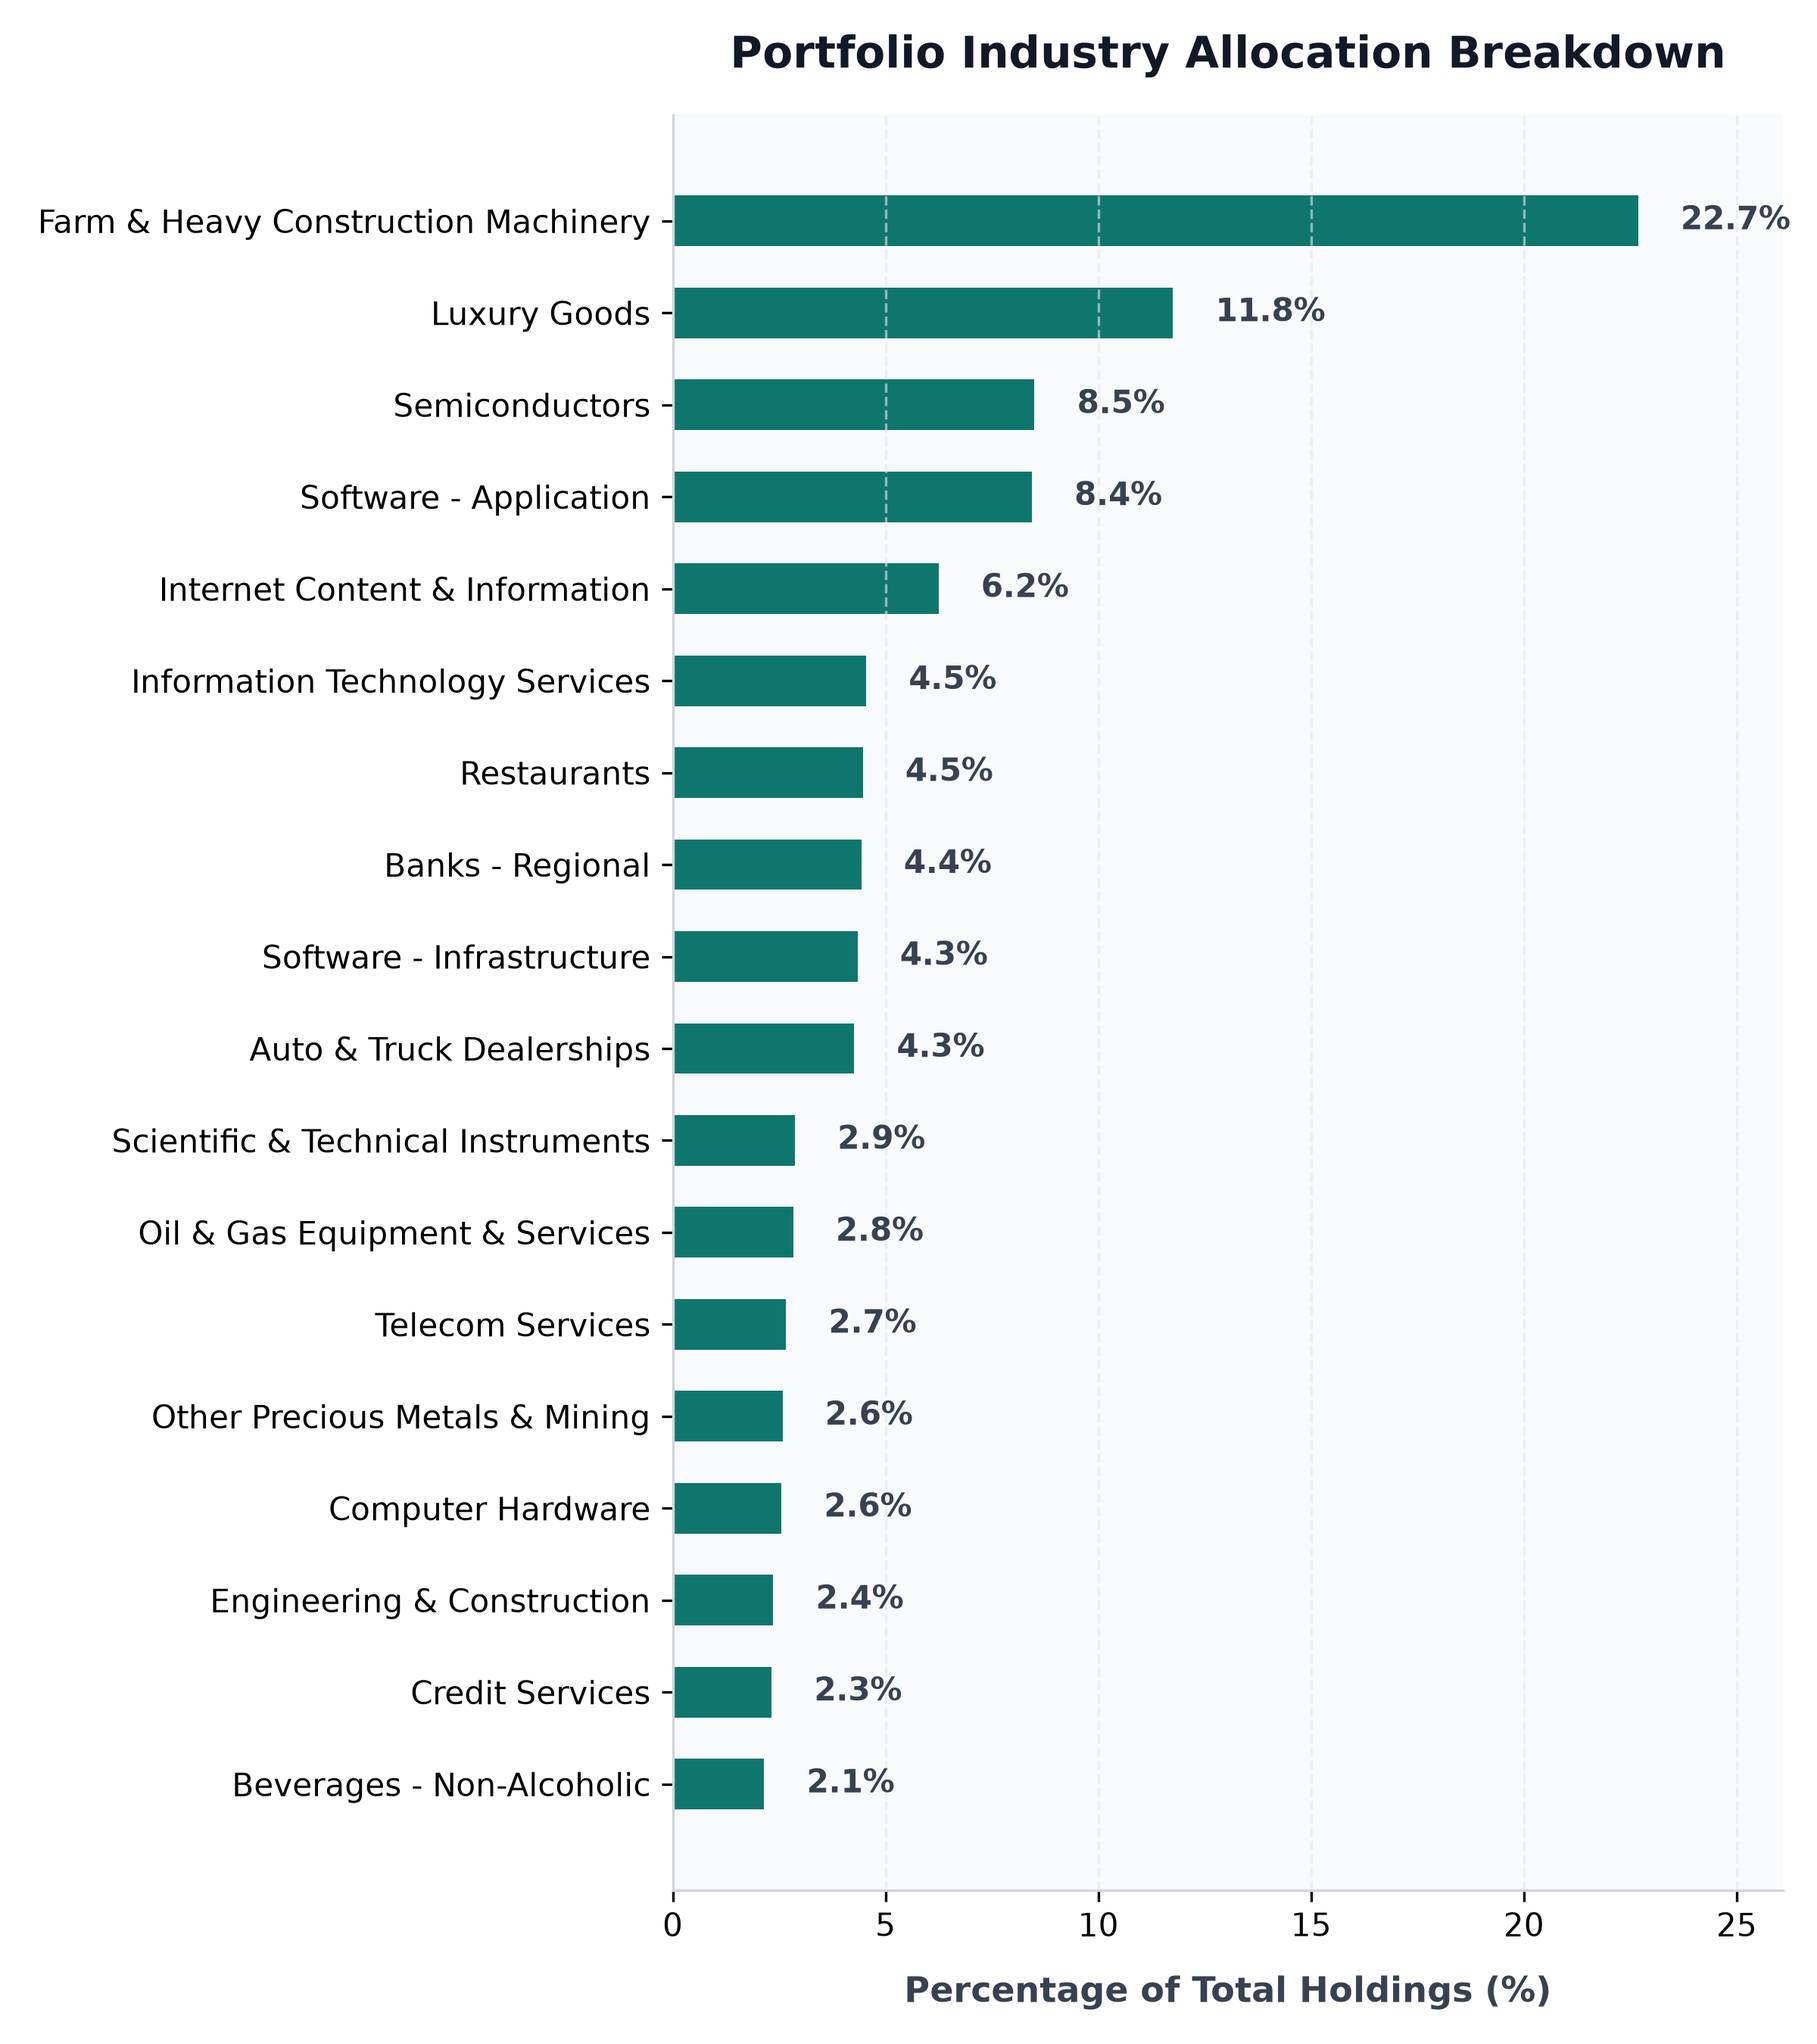
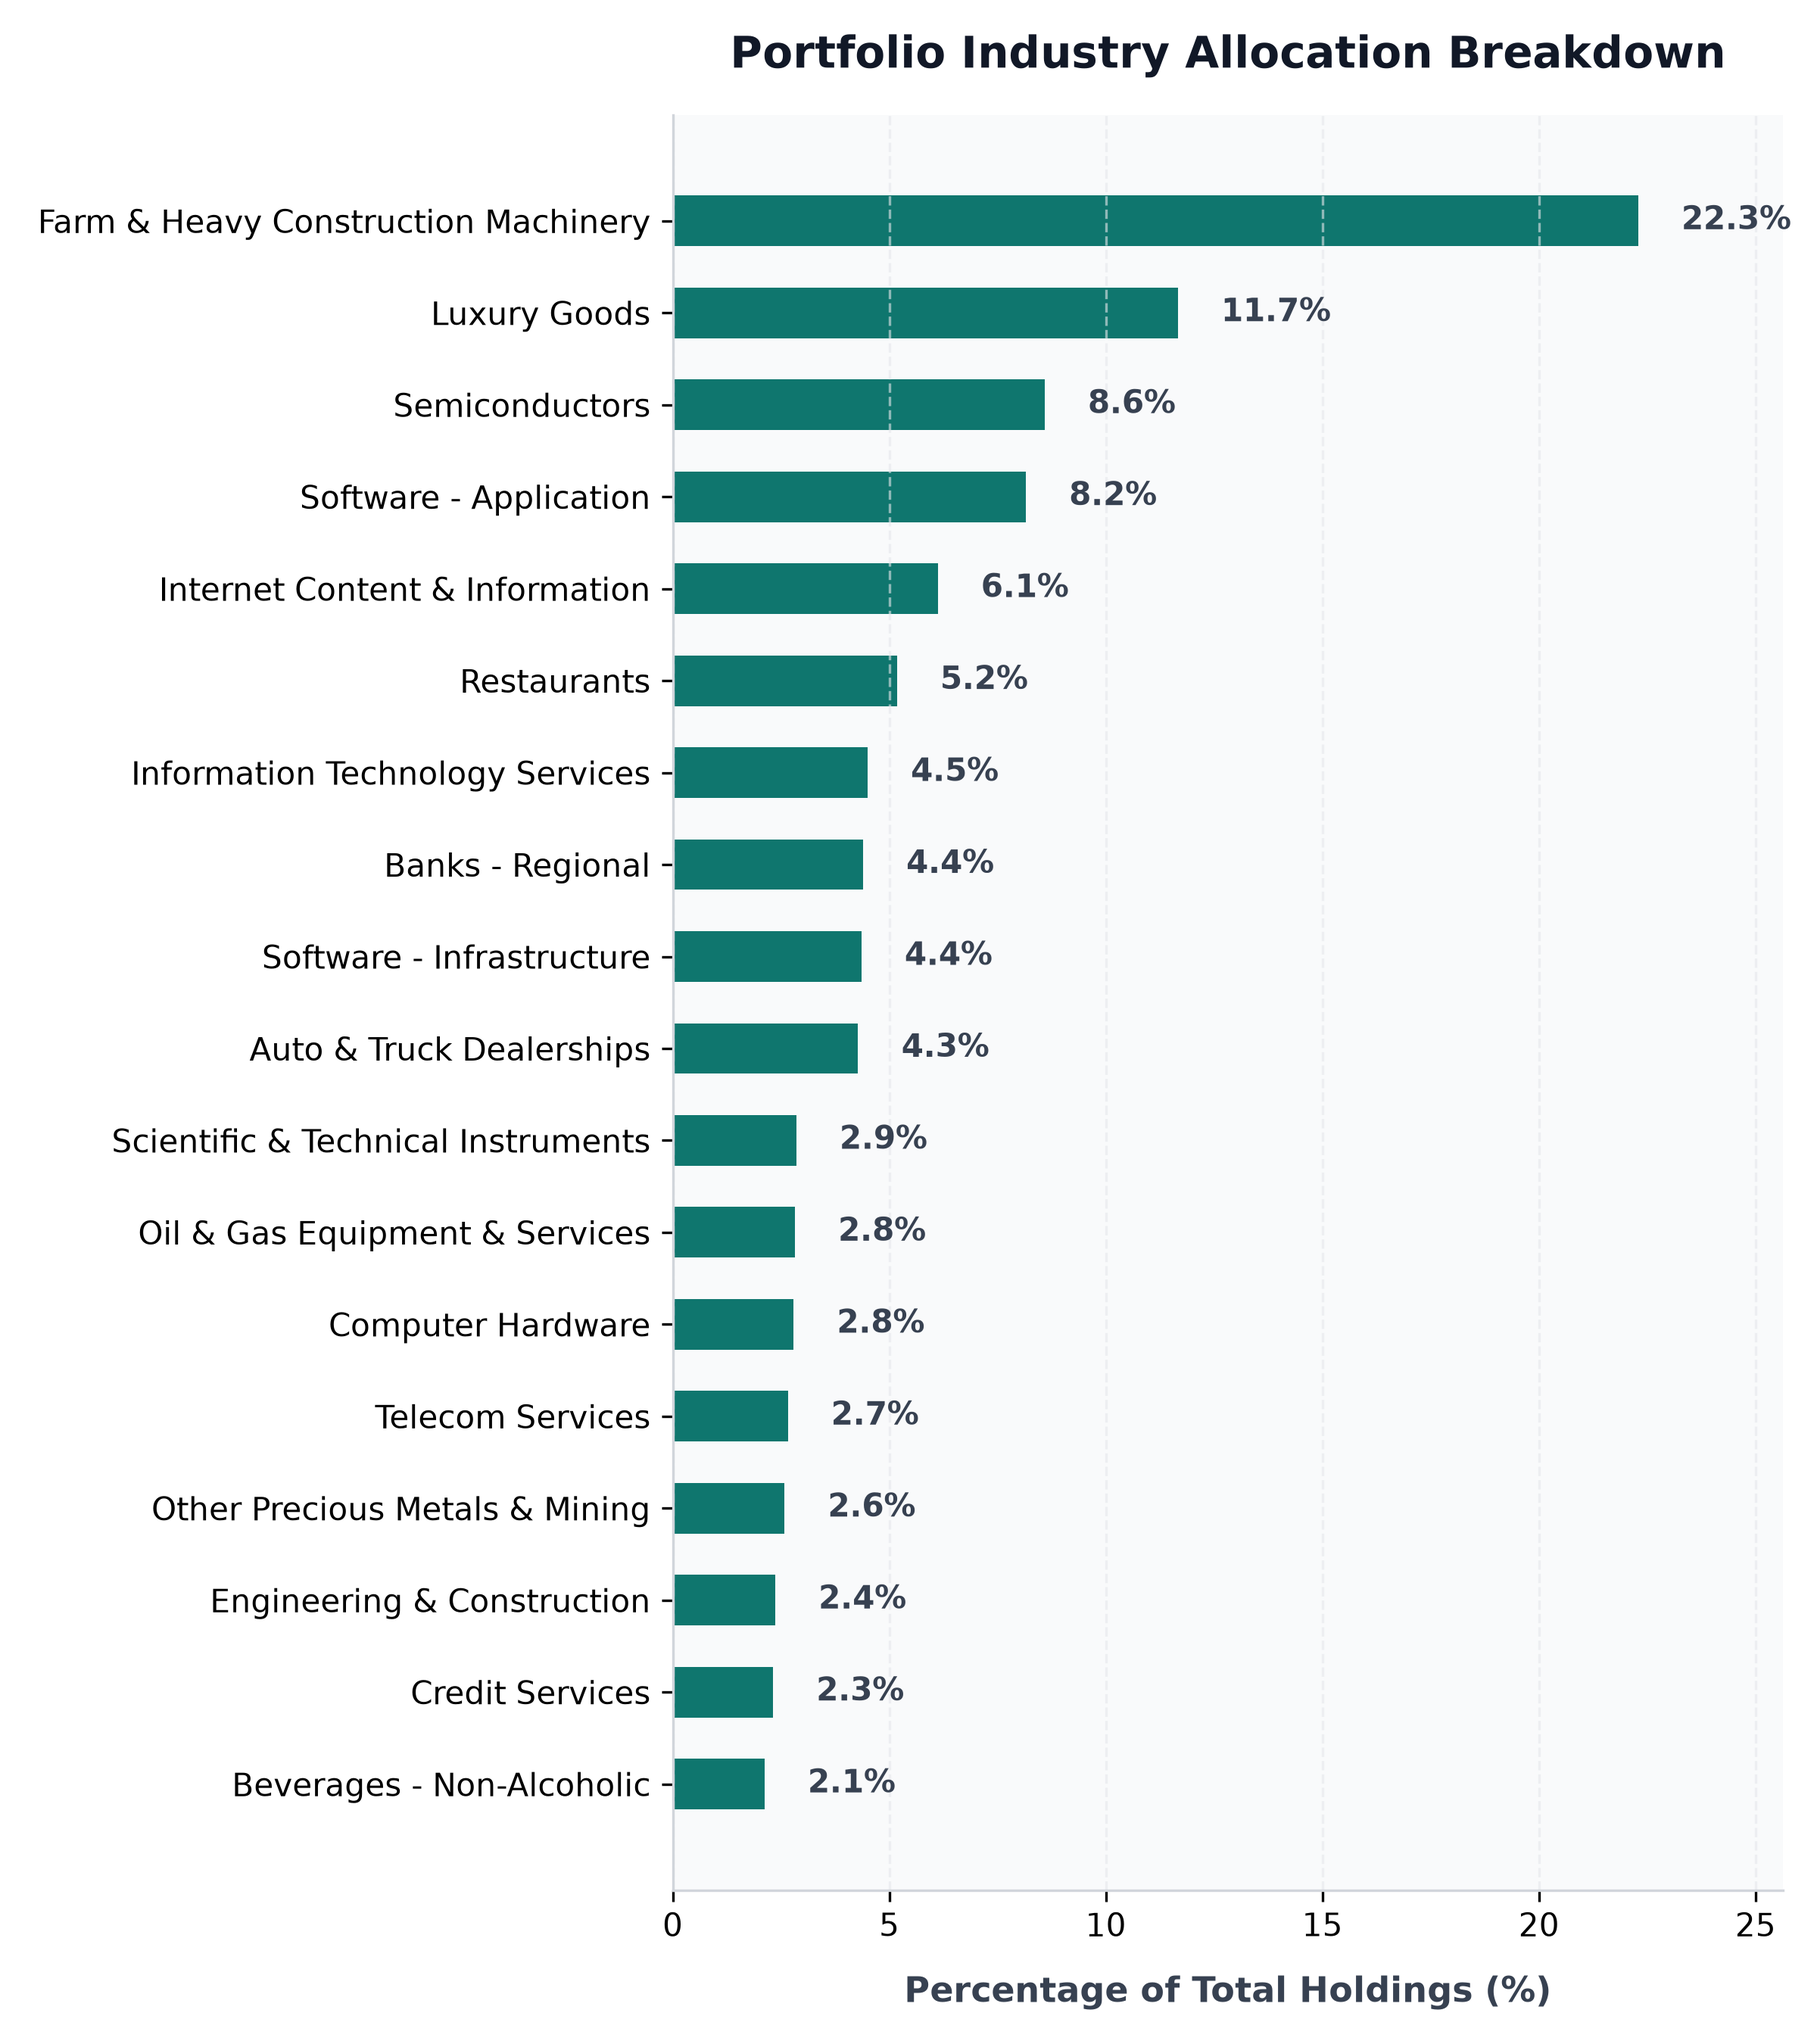
auto: daily portfolio status update - 2026-08-13 00:00:25

diff --git a/src/content/posts/portfolio-performance.md b/src/content/posts/portfolio-performance.md
@@ -1,6 +1,6 @@
 ---
 title: "BadOmen Algorithmic Portfolio Performance & PnL Report"
-pubDatetime: 2026-08-12T06:05:20.819203+08:00
+pubDatetime: 2026-08-13T00:00:25.448162+08:00
 description: "Live performance metrics, active holdings, and historic equity curve for the BadOmen automated paper trading portfolio."
 featured: true
 draft: false
@@ -16,11 +16,11 @@ Welcome to the live performance dashboard for **BadOmen**, our automated algorit
 ## 📊 Portfolio Summary
 | Performance Metric | Value | description |
 | :--- | :--- | :--- |
-| **Net Portfolio Equity** | **$101,067.32** | Total current liquidation value of cash and stock holdings |
-| **Total Unrealized P&L** | 🟢 **+$406.77** (+0.40%) | Total return of current open holdings |
+| **Net Portfolio Equity** | **$100,767.24** | Total current liquidation value of cash and stock holdings |
+| **Total Unrealized P&L** | 🟢 **+$108.97** (+0.11%) | Total return of current open holdings |
 | **Cash Balance** | $57,887.87 | Idle reserve currency available for limit orders |
-| **Buying Power** | $337,190.70 | Margin-backed buying power for entry allocations |
-| **Report Updated** | `2026-08-12 06:05:20 (SGT)` | Timestamp of daily execution and sync run |
+| **Buying Power** | $336,350.47 | Margin-backed buying power for entry allocations |
+| **Report Updated** | `2026-08-13 00:00:25 (SGT)` | Timestamp of daily execution and sync run |
 
 ## 📈 Net Equity Growth Curve
 The chart below illustrates the historical performance of the account starting from our baseline capital funding of $100,000.00.
@@ -35,34 +35,34 @@ The chart below illustrates the exposure of our currently held active positions 
 ## 💼 Current Position Holdings
 | Ticker | Industry | Shares Owned | Average Entry Cost | Current Price | Unrealized P&L | Return (%) |
 | :--- | :--- | :--- | :--- | :--- | :--- | :--- |
-| **AN** | Auto & Truck Dealerships | 5 | $188.51 | $208.46 | 🟢 +$99.76 | +10.58% |
-| **AVGO** | Semiconductors | 1 | $385.71 | $415.62 | 🟢 +$29.91 | +7.75% |
-| **BLBD** | Farm & Heavy Construction Machinery | 148 | $67.64 | $66.18 | 🔴 $-215.96 | -2.16% |
-| **BVN** | Other Precious Metals & Mining | 32 | $31.88 | $34.80 | 🟢 +$93.60 | +9.18% |
-| **CELH** | Beverages - Non-Alcoholic | 33 | $29.71 | $28.12 | 🔴 $-52.43 | -5.35% |
-| **CPRI** | Luxury Goods | 326 | $15.45 | $15.57 | 🟢 +$40.00 | +0.79% |
-| **DUOL** | Software - Application | 14 | $131.04 | $133.91 | 🟢 +$40.17 | +2.19% |
-| **FIS** | Information Technology Services | 23 | $41.79 | $42.75 | 🟢 +$22.08 | +2.30% |
-| **GDDY** | Software - Infrastructure | 6 | $76.21 | $91.14 | 🟢 +$89.58 | +19.59% |
-| **GDS** | Information Technology Services | 30 | $32.77 | $32.63 | 🔴 $-4.20 | -0.43% |
-| **GGAL** | Banks - Regional | 17 | $56.04 | $44.53 | 🔴 $-195.66 | -20.54% |
-| **GOOGL** | Internet Content & Information | 3 | $319.44 | $344.78 | 🟢 +$76.02 | +7.93% |
-| **GPI** | Auto & Truck Dealerships | 3 | $316.15 | $266.26 | 🔴 $-149.67 | -15.78% |
-| **HUBS** | Software - Application | 8 | $221.18 | $221.02 | 🔴 $-1.31 | -0.07% |
-| **ITRI** | Scientific & Technical Instruments | 12 | $81.80 | $103.33 | 🟢 +$258.36 | +26.32% |
-| **KBR** | Engineering & Construction | 27 | $36.23 | $37.80 | 🟢 +$42.31 | +4.32% |
-| **META** | Internet Content & Information | 1 | $568.17 | $599.67 | 🟢 +$31.50 | +5.54% |
-| **NESR** | Oil & Gas Equipment & Services | 34 | $28.74 | $35.95 | 🟢 +$245.14 | +25.09% |
-| **NU** | Banks - Regional | 85 | $11.60 | $13.60 | 🟢 +$170.11 | +17.26% |
-| **ON** | Semiconductors | 10 | $90.45 | $81.25 | 🔴 $-92.05 | -10.18% |
-| **ORCL** | Software - Infrastructure | 5 | $181.95 | $146.55 | 🔴 $-177.00 | -19.46% |
-| **PATH** | Software - Infrastructure | 38 | $10.25 | $15.64 | 🟢 +$204.82 | +52.59% |
-| **PYPL** | Credit Services | 17 | $56.05 | $59.00 | 🟢 +$50.15 | +5.26% |
-| **QCOM** | Semiconductors | 15 | $193.68 | $162.84 | 🔴 $-462.67 | -15.93% |
-| **SMCI** | Computer Hardware | 33 | $29.25 | $33.44 | 🟢 +$138.41 | +14.34% |
-| **T** | Telecom Services | 47 | $20.85 | $24.47 | 🟢 +$170.14 | +17.36% |
-| **WEN** | Restaurants | 257 | $8.02 | $7.50 | 🔴 $-134.60 | -6.53% |
-| **ZG** | Internet Content & Information | 31 | $31.35 | $34.27 | 🟢 +$90.26 | +9.29% |
+| **AN** | Auto & Truck Dealerships | 5 | $188.51 | $207.56 | 🟢 +$95.28 | +10.11% |
+| **AVGO** | Semiconductors | 1 | $385.71 | $419.59 | 🟢 +$33.88 | +8.78% |
+| **BLBD** | Farm & Heavy Construction Machinery | 148 | $67.64 | $64.58 | 🔴 $-452.76 | -4.52% |
+| **BVN** | Other Precious Metals & Mining | 32 | $31.88 | $34.58 | 🟢 +$86.56 | +8.49% |
+| **CELH** | Beverages - Non-Alcoholic | 33 | $29.71 | $27.51 | 🔴 $-72.69 | -7.41% |
+| **CPRI** | Luxury Goods | 326 | $15.45 | $15.34 | 🔴 $-34.98 | -0.69% |
+| **DUOL** | Software - Application | 14 | $131.04 | $129.40 | 🔴 $-23.02 | -1.26% |
+| **FIS** | Information Technology Services | 23 | $41.79 | $41.75 | 🔴 $-0.92 | -0.10% |
+| **GDDY** | Software - Infrastructure | 6 | $76.21 | $90.36 | 🟢 +$84.87 | +18.56% |
+| **GDS** | Information Technology Services | 30 | $32.77 | $32.28 | 🔴 $-14.55 | -1.48% |
+| **GGAL** | Banks - Regional | 17 | $56.04 | $43.65 | 🔴 $-210.71 | -22.12% |
+| **GOOGL** | Internet Content & Information | 3 | $319.44 | $341.50 | 🟢 +$66.18 | +6.91% |
+| **GPI** | Auto & Truck Dealerships | 3 | $316.15 | $266.00 | 🔴 $-150.45 | -15.86% |
+| **HUBS** | Software - Application | 8 | $221.18 | $210.50 | 🔴 $-85.45 | -4.83% |
+| **ITRI** | Scientific & Technical Instruments | 12 | $81.80 | $101.89 | 🟢 +$241.08 | +24.56% |
+| **KBR** | Engineering & Construction | 27 | $36.23 | $37.58 | 🟢 +$36.37 | +3.72% |
+| **META** | Internet Content & Information | 1 | $568.17 | $581.33 | 🟢 +$13.16 | +2.32% |
+| **NESR** | Oil & Gas Equipment & Services | 34 | $28.74 | $35.56 | 🟢 +$231.88 | +23.73% |
+| **NU** | Banks - Regional | 85 | $11.60 | $13.43 | 🟢 +$155.67 | +15.79% |
+| **ON** | Semiconductors | 10 | $90.45 | $82.93 | 🔴 $-75.25 | -8.32% |
+| **ORCL** | Software - Infrastructure | 5 | $181.95 | $149.93 | 🔴 $-160.10 | -17.60% |
+| **PATH** | Software - Infrastructure | 38 | $10.25 | $15.13 | 🟢 +$185.63 | +47.66% |
+| **PYPL** | Credit Services | 17 | $56.05 | $58.40 | 🟢 +$39.87 | +4.18% |
+| **QCOM** | Semiconductors | 15 | $193.68 | $162.15 | 🔴 $-473.02 | -16.28% |
+| **SMCI** | Computer Hardware | 33 | $29.25 | $36.25 | 🟢 +$231.01 | +23.93% |
+| **T** | Telecom Services | 47 | $20.85 | $24.23 | 🟢 +$158.86 | +16.21% |
+| **WEN** | Restaurants | 257 | $8.02 | $8.63 | 🟢 +$157.10 | +7.62% |
+| **ZG** | Internet Content & Information | 31 | $31.35 | $32.82 | 🟢 +$45.47 | +4.68% |
 
 ## 🔴 Recent Realized Trades
 | Ticker | Shares Sold | Entry Price | Exit Price | Strategy Trigger | Realized Return | Exit Date |
